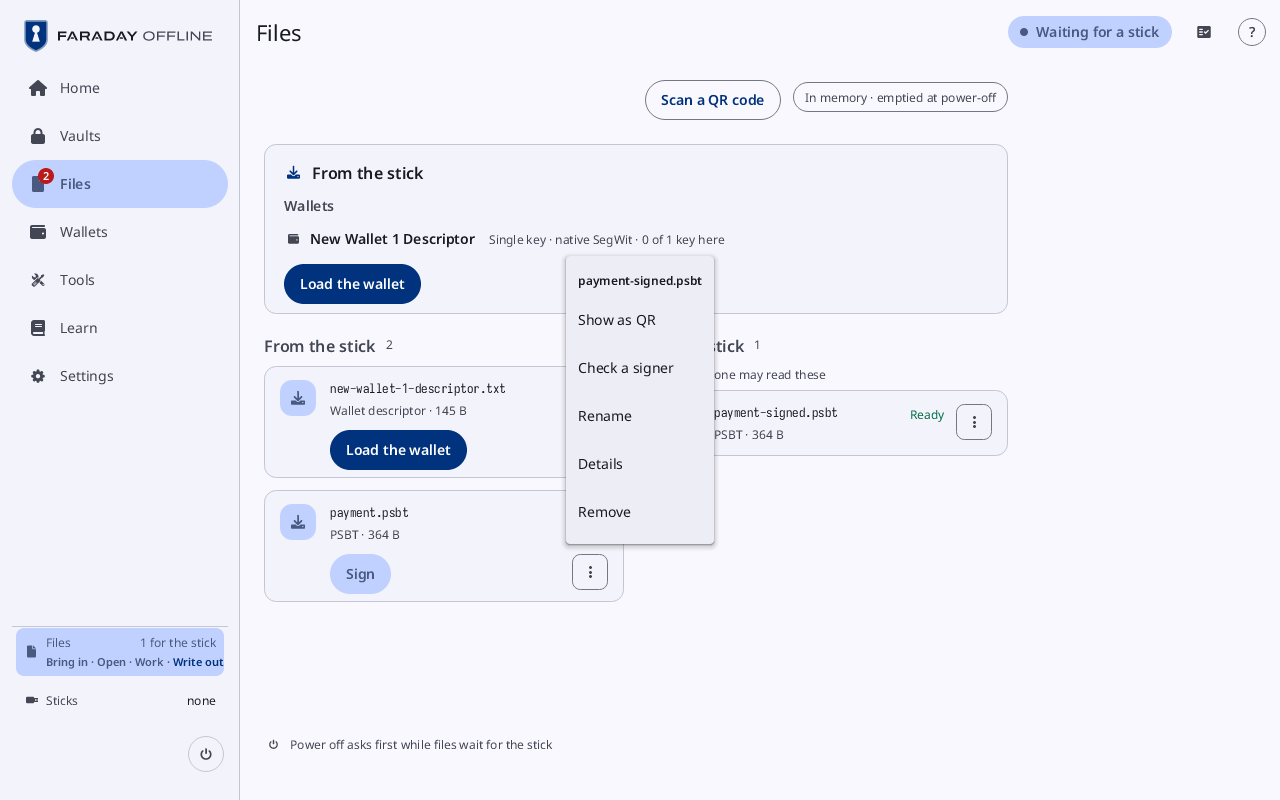
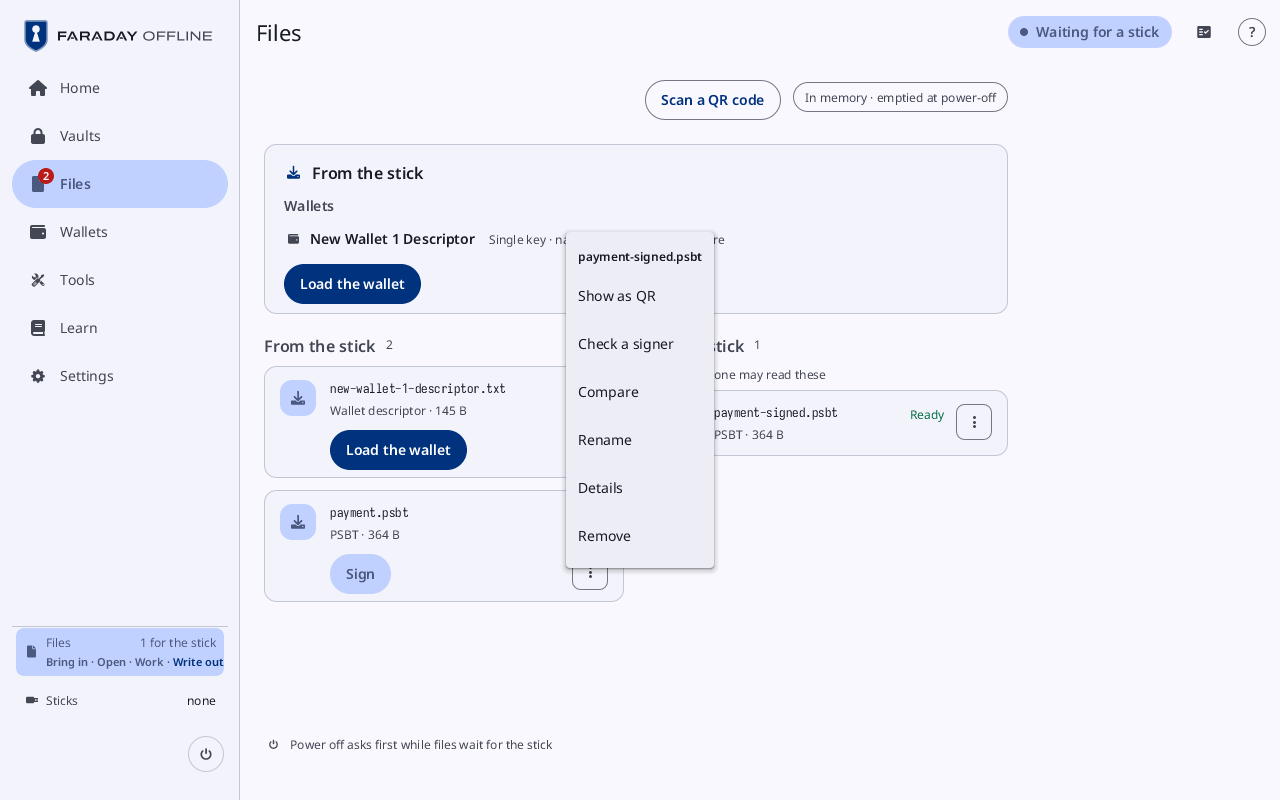
The guide's pictures of Files' ⋮ menu show Compare, and its text names it in the menu's list. The pictures of Sign a transaction's warnings are drawn again with only the PSBT under review spending its coin: the guide tour sets aside what the spend by QR left in Files while it shoots them, as the rev
Claude-Session: https://claude.ai/code/session_01Nu65eMhvNZXi3wfXPetaRN

Changed region(s): [[0.4375, 0.2812, 0.5625, 0.7188]]

diff --git a/faraday/shells/snapshot/src/tours/guide/spend.rs b/faraday/shells/snapshot/src/tours/guide/spend.rs
@@ -112,11 +112,17 @@ pub(super) fn spend_warnings(_c: &Compute, t: &mut Tour) -> Result<(), String> {
     let other = std::fs::read(t.kit.join("savings-unsigned.psbt")).map_err(|e| e.to_string())?;
     // Sign a transaction on a PSBT with nothing to warn of.
     let plain = faraday_core::testkit::unsigned(&kit_of(t, w, 2_000))?.to_bytes();
+    // What the spend by QR left for the stick spends the same coin too:
+    // set aside while these are shot, back for the stick's pictures.
+    let kept = std::mem::take(&mut t.app.outbox);
     for (bytes, name) in [
         (plain, "sign-transaction"),
         (fee, "6-8-fee"),
         (other, "6-8-other-wallet"),
     ] {
+        // The PSBTs scanned before, deleted from Files: they spend the
+        // same coin, and the review would show them as a fee bump.
+        faraday_core::testkit::inbox_retain(&mut t.app, |i| !i.name.starts_with("scanned-"));
         t.press(Action::Nav(Screen::Home));
         t.press(Action::Scan);
         show_psbt(t, &bytes, None)?;
@@ -131,6 +137,7 @@ pub(super) fn spend_warnings(_c: &Compute, t: &mut Tour) -> Result<(), String> {
         t.press(Action::StartSpend(at));
         t.shot(name)?;
     }
+    t.app.outbox = kept;
     Ok(())
 }
 

diff --git a/faraday/shells/snapshot/src/tours/visit.rs b/faraday/shells/snapshot/src/tours/visit.rs
@@ -46,6 +46,7 @@ pub(crate) fn visit_tour(c: &Compute, t: &mut Tour) -> Result<(), String> {
             wallet: None,
             psbt: None,
             outpoints: Vec::new(),
+            unsigned_txid: None,
         });
     }
     t.app.outbox.push(faraday_core::Item {
@@ -59,6 +60,7 @@ pub(crate) fn visit_tour(c: &Compute, t: &mut Tour) -> Result<(), String> {
         wallet: None,
         psbt: None,
         outpoints: Vec::new(),
+        unsigned_txid: None,
     });
     t.sticks(true);
     t.press(Action::Nav(Screen::Visit));
@@ -124,6 +126,7 @@ fn not_clean(t: &mut Tour) -> Result<(), String> {
             wallet: None,
             psbt: None,
             outpoints: Vec::new(),
+            unsigned_txid: None,
         },
     );
     t.sticks(false);

diff --git a/faraday/shells/snapshot/src/tours/silent.rs b/faraday/shells/snapshot/src/tours/silent.rs
@@ -55,6 +55,7 @@ pub(crate) fn silent_tour(c: &Compute, t: &mut Tour) -> Result<(), String> {
                 wallet: None,
                 psbt: None,
                 outpoints: Vec::new(),
+                unsigned_txid: None,
             },
         );
         t.press(Action::LoadWallet(0));

diff --git a/faraday/shells/snapshot/src/tours/guide/messages.rs b/faraday/shells/snapshot/src/tours/guide/messages.rs
@@ -48,6 +48,7 @@ pub(super) fn run(t: &mut Tour) -> Result<(), String> {
         wallet: None,
         psbt: None,
         outpoints: Vec::new(),
+        unsigned_txid: None,
     };
     faraday_core::testkit::inbox_push(&mut t.app, item);
     let at = t.app.inbox().iter().count() - 1;

diff --git a/faraday/shells/snapshot/src/tours/inbox.rs b/faraday/shells/snapshot/src/tours/inbox.rs
@@ -19,6 +19,7 @@ pub(crate) fn inbox_tour(t: &mut Tour) -> Result<(), String> {
         wallet: None,
         psbt: None,
         outpoints: Vec::new(),
+        unsigned_txid: None,
     };
     t.app
         .outbox

diff --git a/docs/guide/walk/files-and-sticks.md b/docs/guide/walk/files-and-sticks.md
@@ -159,11 +159,11 @@ in a vault** with a vault open.
 Each file row has its button and a **⋮**. The menu opens under the
 file's name. In Files it holds, where
 the file has them: **Add to vault**, **Show as QR**, **Make PDF**,
-**Check a signer** (a PSBT), **Rename** (For the stick only), **Details** and **Remove**. On the
+**Check a signer** and **Compare** (a PSBT), **Rename** (For the stick only), **Details** and **Remove**. On the
 stick visit, a file on the stick has **Rename**, **Delete from the
 stick** and **Details**.
 
-![The ⋮ menu of payment-signed.psbt, For the stick, in Files: Show as QR, Check a signer, Rename, Details and Remove](../pictures/files-and-sticks-menu.png)
+![The ⋮ menu of payment-signed.psbt, For the stick, in Files: Show as QR, Check a signer, Compare, Rename, Details and Remove](../pictures/files-and-sticks-menu.png)
 
 **Rename** opens "Rename" and the file's name: a field for the name,
 its extension fixed after it, **Rename** and **Cancel**. The name is

diff --git a/docs/guide/screens/files.md b/docs/guide/screens/files.md
@@ -114,7 +114,7 @@ files from the stick give something to load. Its parts are
 **Opened from:** a file row's **⋮**: a menu under it, a sheet on a
 small window.
 
-![The ⋮ menu of payment-signed.psbt on For the stick: Show as QR, Check a signer, Rename, Details, Remove](../pictures/files-menu.png)
+![The ⋮ menu of payment-signed.psbt on For the stick: Show as QR, Check a signer, Compare, Rename, Details, Remove](../pictures/files-menu.png)
 
 *A file's **⋮** on **For the stick**: the file's name over **Show as
 QR**, **Check a signer**, **Rename**, **Details** and **Remove**.*
